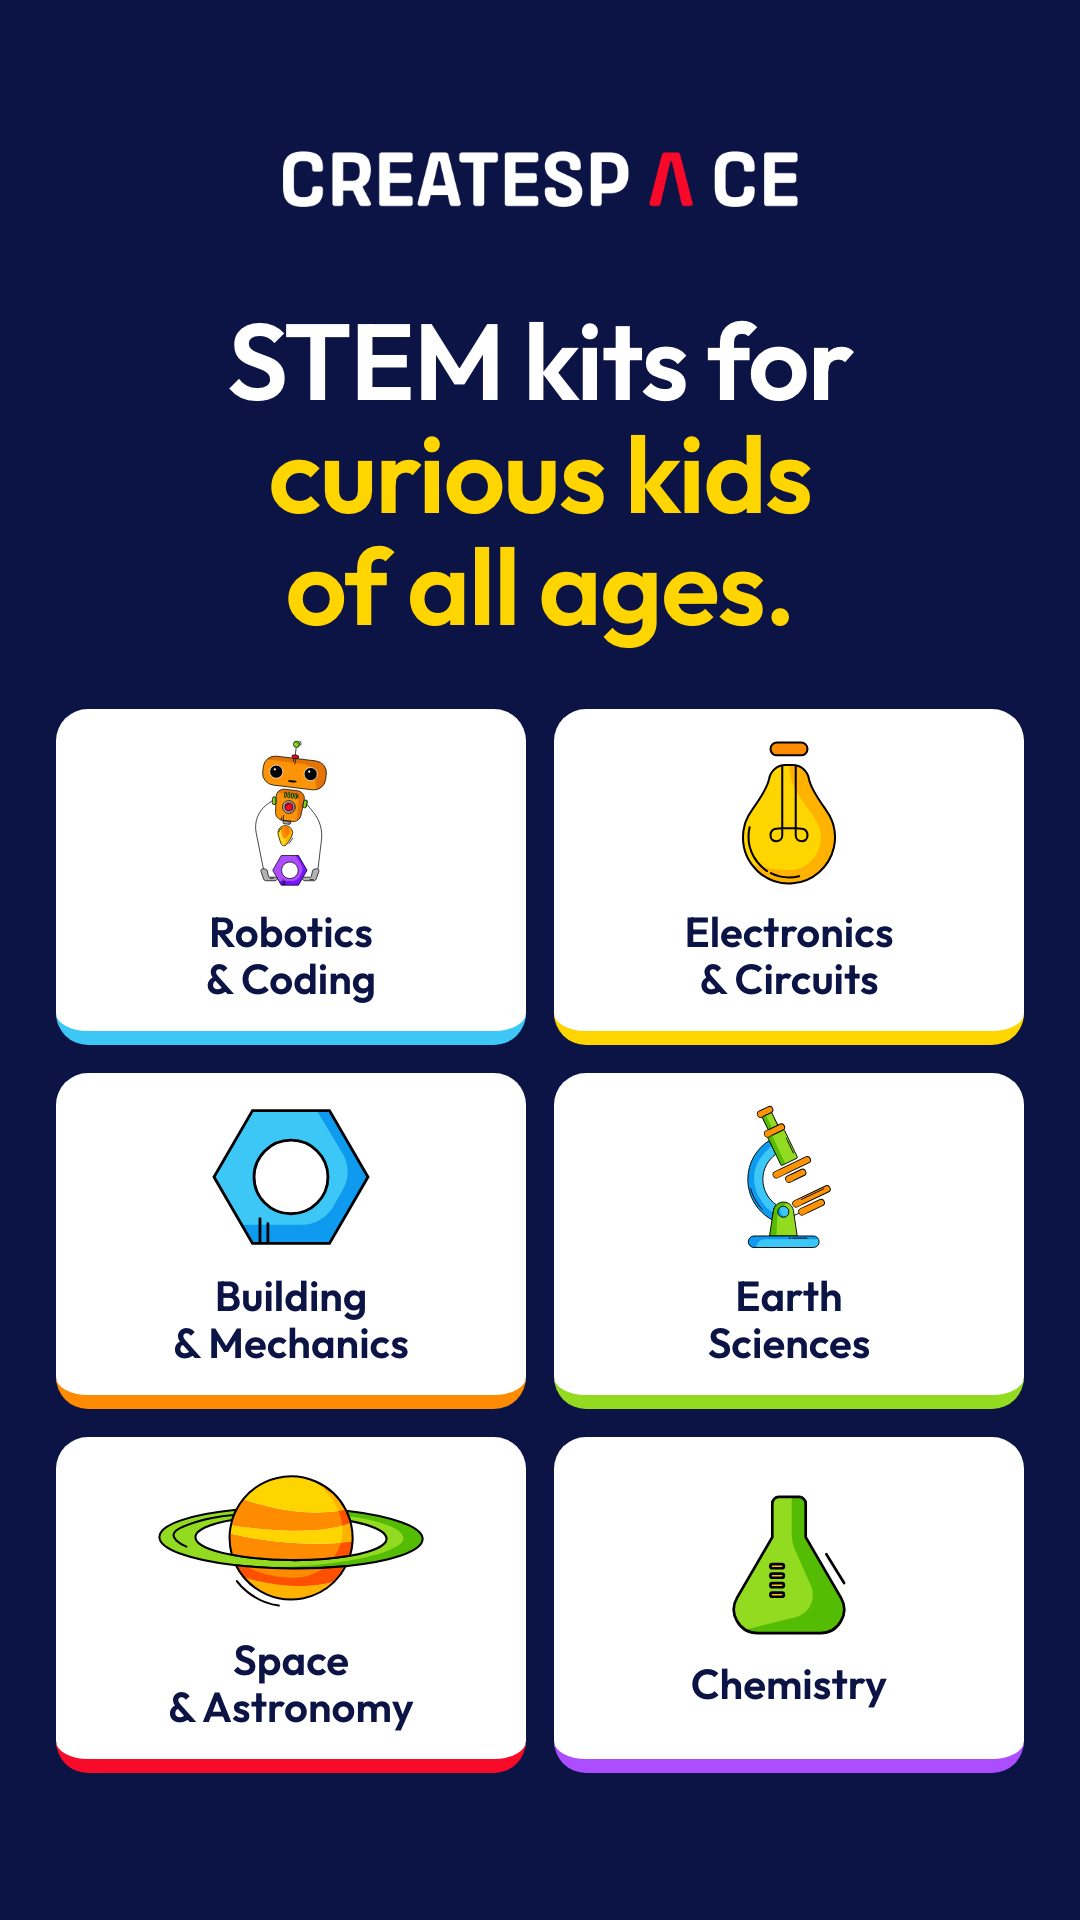
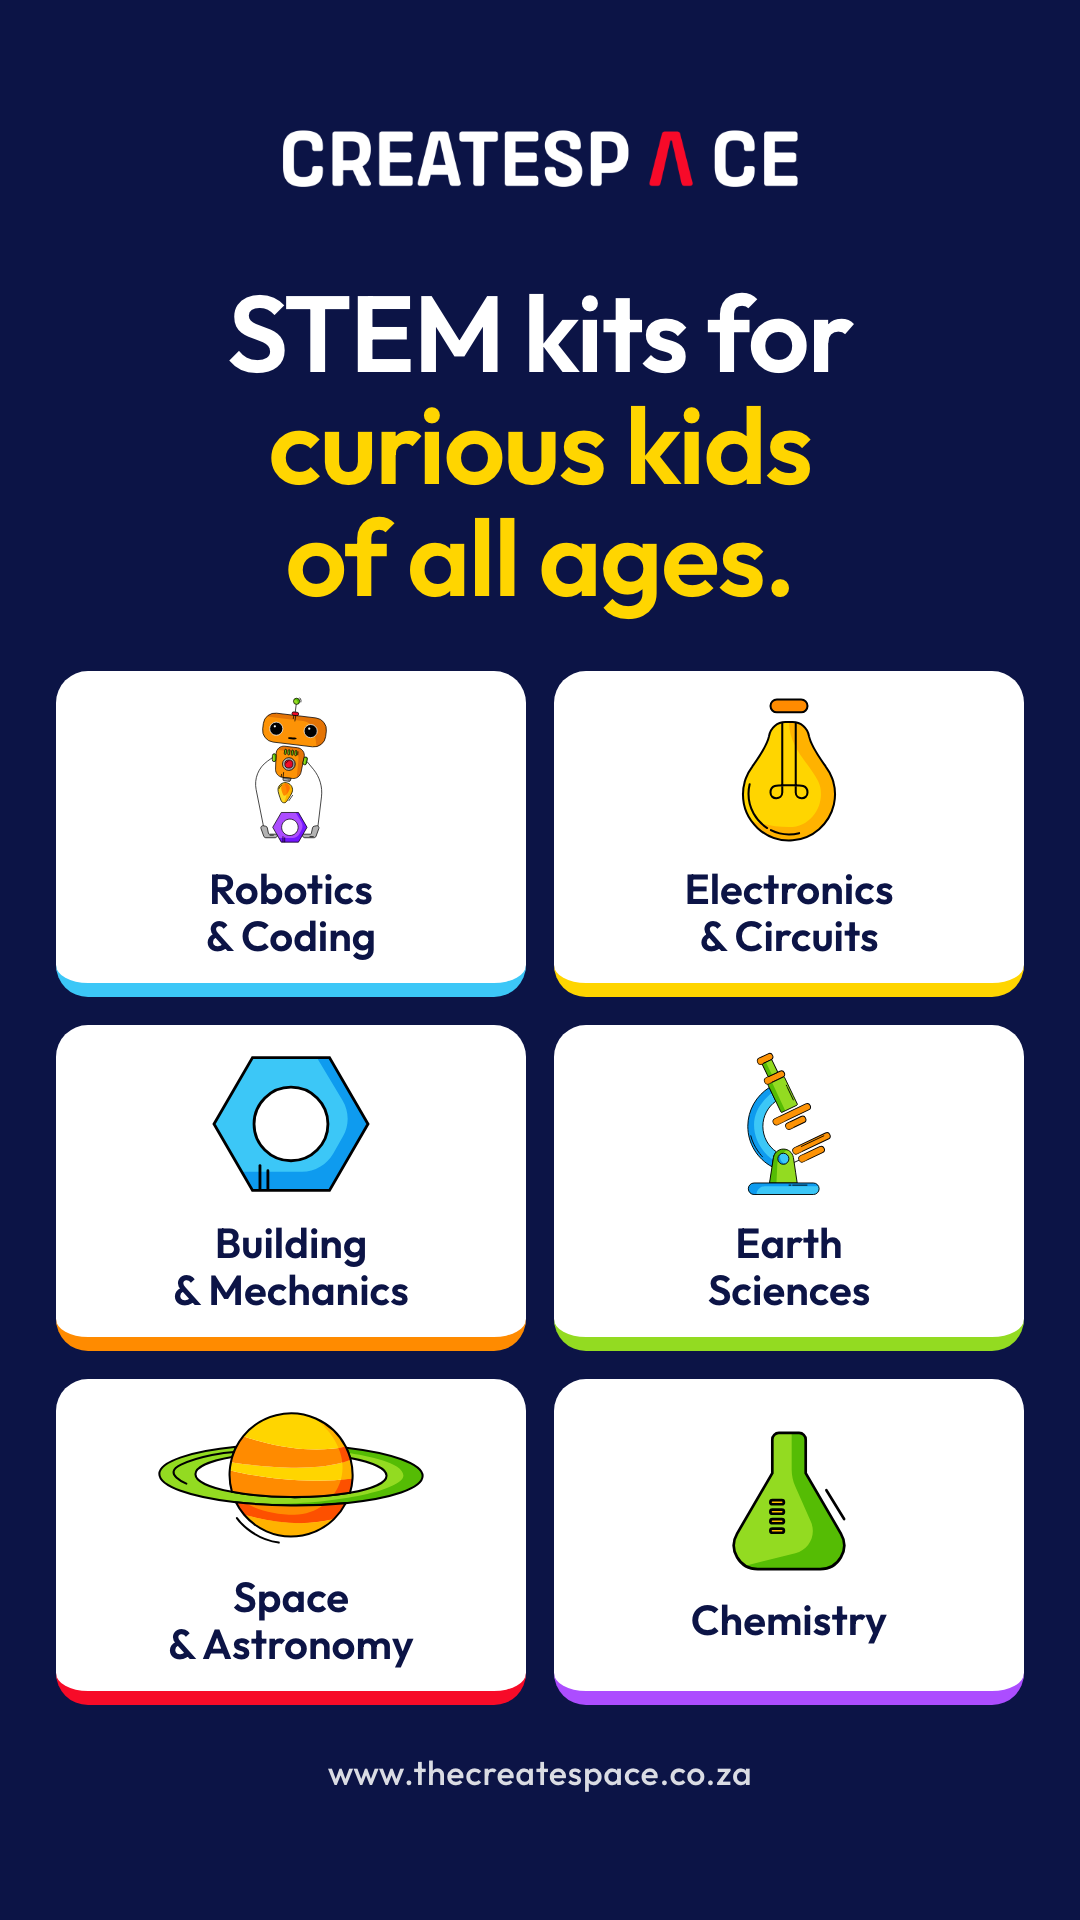
Add the website address to the bottom of the cover

Changed region(s): [[0.0306, 0.1562, 0.9472, 0.9375], [0.2444, 0.0625, 0.7333, 0.125]]

diff --git a/marketing/campaigns/2026-10-google-profile/cover-categories.html b/marketing/campaigns/2026-10-google-profile/cover-categories.html
@@ -23,13 +23,13 @@
       padding: 0 56px;
       text-align: center;
     }
-    .logo { width: 540px; height: auto; display: block; margin-bottom: 92px; }
+    .logo { width: 540px; height: auto; display: block; margin-bottom: 84px; }
     h1 {
       font-weight: 600;
       font-size: 108px;
       line-height: 1.04;
       letter-spacing: -0.015em;
-      margin: 0 0 68px;
+      margin: 0 0 58px;
     }
     h1 em { font-style: normal; color: var(--cs-yellow); }
     .grid {
@@ -42,7 +42,7 @@
       background: var(--cs-white);
       color: var(--cs-navy);
       border-radius: 32px;
-      height: 336px;
+      height: 326px;
       display: flex;
       flex-direction: column;
       align-items: center;
@@ -51,6 +51,14 @@
       border-bottom: 14px solid var(--accent);
     }
     .tile img { height: 150px; width: auto; max-width: 290px; display: block; }
+    .url {
+      margin: 46px 0 0;
+      font-size: 34px;
+      font-weight: 500;
+      letter-spacing: 0.02em;
+      color: var(--cs-white);
+      opacity: 0.85;
+    }
     .tile span { font-size: 42px; font-weight: 600; line-height: 1.12; }
   </style>
 </head>
@@ -66,6 +74,7 @@
       <div class="tile" style="--accent: var(--cs-red)"><img src="../../creative/kit/illustrations/planet-1.svg" alt=""><span>Space<br>&amp; Astronomy</span></div>
       <div class="tile" style="--accent: var(--cs-purple)"><img src="../../creative/kit/illustrations/beaker-1.svg" alt=""><span>Chemistry</span></div>
     </div>
+    <p class="url">www.thecreatespace.co.za</p>
   </main>
 </body>
 </html>
